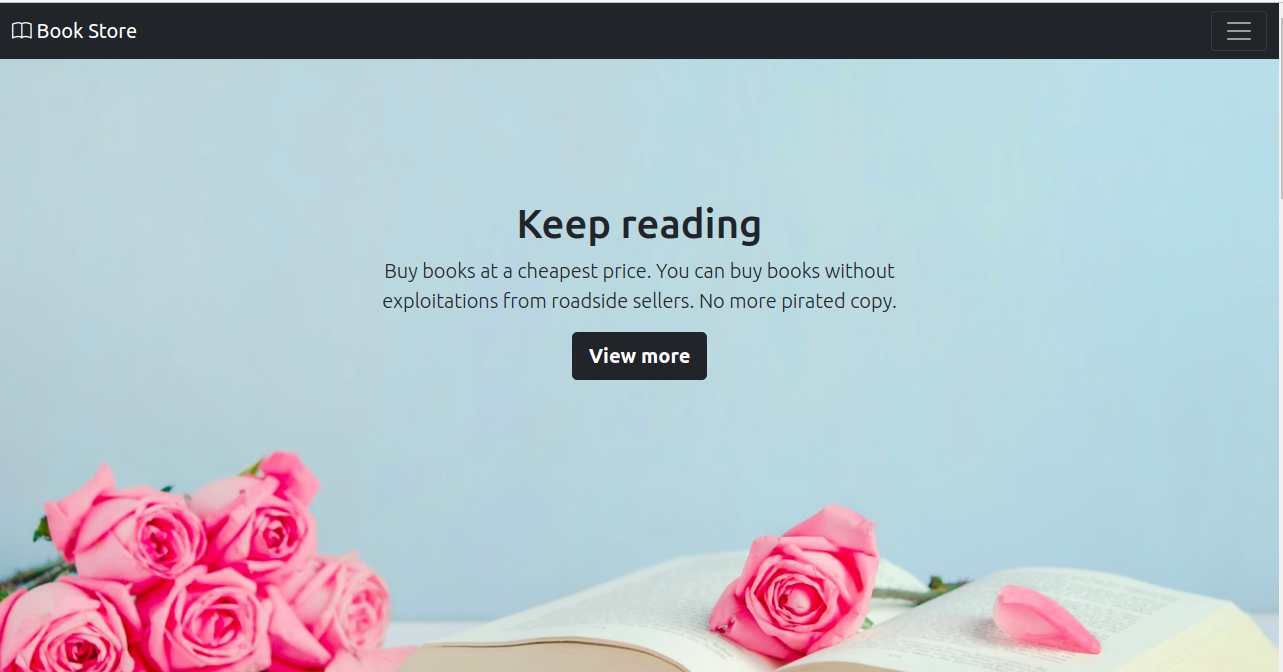
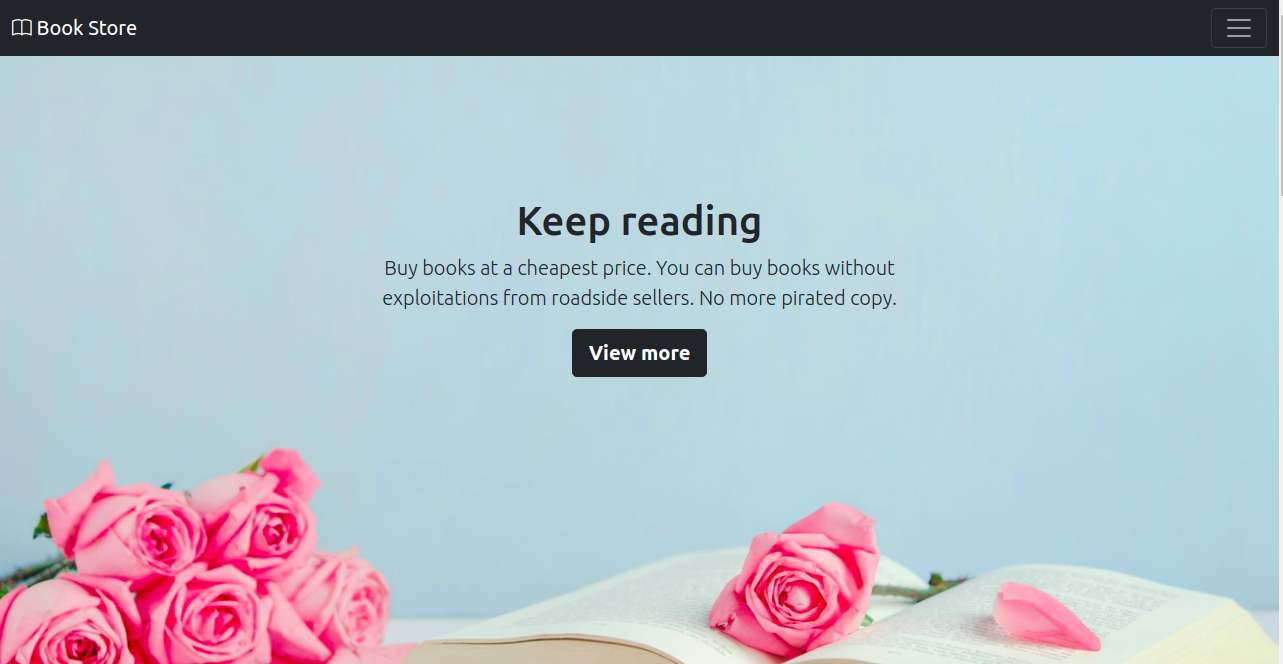
add new updates

diff --git a/index.html b/index.html
@@ -7,10 +7,10 @@
 <meta charset="utf-8">
 <meta name="viewport" content="width=device-width, initial-scale=1">
 <link href="https://cdn.jsdelivr.net/npm/bootstrap@5.1.3/dist/css/bootstrap.min.css" rel="stylesheet" integrity="sha384-1BmE4kWBq78iYhFldvKuhfTAU6auU8tT94WrHftjDbrCEXSU1oBoqyl2QvZ6jIW3" crossorigin="anonymous">
-<link href="https://fonts.googleapis.com/css?family=Unica+One%7CWork+Sans:300,600" rel="stylesheet"><link rel="stylesheet" href="https://cdnjs.cloudflare.com/ajax/libs/normalize/5.0.0/normalize.min.css">
 <link rel='stylesheet' href='https://maxcdn.bootstrapcdn.com/bootstrap/3.3.7/css/bootstrap.min.css'>
-  <link rel="stylesheet" href="https://cdn.jsdelivr.net/npm/bootstrap-icons@1.6.1/font/bootstrap-icons.css">
-    <link rel="icons" href="https://use.fontawesome.com/releases/v5.7.2/css/all.css">
+<link rel="stylesheet" href="https://pro.fontawesome.com/releases/v5.10.0/css/all.css" integrity="sha384-AYmEC3Yw5cVb3ZcuHtOA93w35dYTsvhLPVnYs9eStHfGJvOvKxVfELGroGkvsg+p" crossorigin="anonymous"/>
+
+  <!-- <link rel="stylesheet" href="https://cdn.jsdelivr.net/npm/bootstrap-icons@1.6.1/font/bootstrap-icons.css"> -->
 <link rel="stylesheet" href="./style.css">
 
 </head>
@@ -93,7 +93,7 @@
       <div class="row mb-3">
         <div class="col-sm-10 col-sm-offset-1">
         <hr class="dashed">
-          <h2 class="mb-60">My Skills</h2>
+          <h2 class="mb-30">My Skills</h2>
         </div>
       <div class="center_text">
         <div class="col-sm-3">
@@ -128,42 +128,59 @@
 
 <section id="project" >
 
-      <div class="container  my-5 p-4 color ">
-        <div class="row   ">
-      <h1 class="display-4 text-center mb-4 lh-1"> My Projects</h1>
+      <div class="row mb-3">
+        <div class="col-sm-10 col-sm-offset-1">
+          <h2 class="mb-30">My Projects</h2>
      
-      
-        
-      <div class="col-lg-4 ">
-        <div class="card">
-        <div class="card-body">
-        <img src="./p1.png" class="card-img-top" alt="...">
-          <p class="card-text text-center "> <a href="https://github.com/lilitha121/bootstrap"><ion-icon size="large" name="logo-github">https://github.com/lilitha121/bootstrap</ion-icon></a> <a href="https://lily-book-store.netlify.app/"> <ion-icon  size="large" name="globe-outline"></ion-icon></a> </p>
-        </div>
-      </div>
-        </div>
-    
-      <div class="col-lg-4 ">
-        <div class="card">
-        <div class="card-body">
-        <img src="p3.png" class="card-img-top" alt="...">
-        <p class="card-text text-center
-         "> <a href="https://github.com/lilitha121/class-exercise"><ion-icon size="large" name="logo-github"></ion-icon></a> <a href="https://css-html-lessons.netlify.app/"> <ion-icon  size="large" name="globe-outline"></ion-icon></a> </p>
-      </div>
-      </div>
-        </div>
-      
+      <div class="main">
+  <ul class="cards">
+    <li class="cards_item">
+      <div class="card">
+        <div class="card_image"><img src="./p1.png"></div>
+        <div class="card_content">
+          <h2 class="card_title">Book Store</h2>
+          <p class="card_text">It's a website of new arriving books</p>
+                  <p class="card-text text-center">
+      <a href="https://github.com/lilitha121/bootstrap"><i class="fab fa-github"></i> </a> 
+     <a href="https://lily-book-store.netlify.app/"> <i class="fab fa-chrome"></i></a> </p>
 
-      <div class="col-lg-4 " >
-        <div class="card">
-        <div class="card-body">
-        <img src="p4.png" class="card-img-top" alt="...">
-        <p class="card-text text-center
-         "> <a href="https://github.com/lilitha121/Projects"><ion-icon size="large" name="logo-github"></ion-icon></a> <a href="https://lilithangele.netlify.app"> <ion-icon  size="large" name="globe-outline"></ion-icon></a> </p>
-      </div>
-      </div>
         </div>
       </div>
+    </li>
+    <li class="cards_item">
+      <div class="card">
+        <div class="card_image"><img src="./p2.png"></div>
+        <div class="card_content">
+          <h2 class="card_title">HTML & CSS lessons</h2>
+          <p class="card_text">Basic lessons about CSS & HTML.</p>
+        <p class="card-text text-center">
+           <a href="https://github.com/lilitha121/class-exercise"><i class="fab fa-github"></i></a> 
+           <a href="https://css-html-lessons.netlify.app/"> <i class="fab fa-chrome"></i></a> </p>
+
+        </div>
+      </div>
+    </li>
+    <li class="cards_item">
+      <div class="card">
+        <div class="card_image"><img src="./p3.png"></div>
+        <div class="card_content">
+          <h2 class="card_title">My Portfolio</h2>
+          <p class="card_text">The first design of my portfolio.</p>
+                  <p class="card-text text-center">
+         <a href="https://github.com/lilitha121/Projects"><i class="fab fa-github"></i></a>
+          <a href="https://lilithangele.netlify.app"> <i class="fab fa-chrome"></i></a> </p>
+
+        </div>
+      </div>
+    </li>
+   
+   
+  </ul>
+</div>
+
+<!-- <h3 class="made_by">Made with ♡</h3> -->
+        
+        </div>
       </div>
 
     </section>
@@ -173,7 +190,7 @@
       <div class="row">
         <hr class="dashed">
         <div class="col-xs-12">
-          <h1 class="mb-60">Testimonials</h1>
+          <h1 class="mb-30">Testimonials</h1>
         </div>
         <div id="carouselExampleDark" class="carousel carousel-light slide" data-bs-ride="carousel">
           <div class="carousel-indicators">

diff --git a/style.css b/style.css
@@ -383,7 +383,7 @@ footer.row {
   text-align: left;
   text-shadow: none;
 }
-.card {
+/* .card {
   background-color: #fff;
   box-shadow: 0 1px 3px rgba(8,33,30,0.5);
   color: #394c4a;
@@ -394,7 +394,7 @@ footer.row {
 }
 .card h4 {
   font-size: 0.8rem;
-}
+} */
 #portfolio .carousel-indicators {
   bottom: 0;
   position: relative;
@@ -747,3 +747,120 @@ color:#d58521;
    -webkit-transform: rotate(360deg);
    transform: rotate(360deg);
  }
+
+
+ *,
+*::before,
+*::after {
+  box-sizing: border-box;
+}
+
+/* html {
+  background-color: #ecf9ff;
+} */
+
+/* body {
+  color: #272727;
+  font-family: 'Quicksand', serif;
+  font-style: normal;
+  font-weight: 400;
+  letter-spacing: 0;
+  padding: 1rem;
+} */
+
+.main{
+  max-width: 1200px;
+  margin: 0 auto;
+}
+
+/* h1 {
+    font-size: 24px;
+    font-weight: 400;
+    text-align: center;
+} */
+
+img {
+  height: auto;
+  max-width: 100%;
+  vertical-align: middle;
+}
+
+/* .btn {
+  color: #ffffff;
+  padding: 0.8rem;
+  font-size: 14px;
+  text-transform: uppercase;
+  border-radius: 4px;
+  font-weight: 400;
+  display: block;
+  width: 100%;
+  cursor: pointer;
+  border: 1px solid rgba(255, 255, 255, 0.2);
+  background: transparent;
+}
+
+.btn:hover {
+  background-color: rgba(255, 255, 255, 0.12);
+} */
+
+.cards {
+  display: flex;
+  flex-wrap: wrap;
+  list-style: none;
+  margin: 0;
+  padding: 0;
+}
+
+.cards_item {
+  display: flex;
+  padding: 1rem;
+}
+
+@media (min-width: 40rem) {
+  .cards_item {
+    width: 50%;
+  }
+}
+
+@media (min-width: 56rem) {
+  .cards_item {
+    width: 33.3333%;
+  }
+}
+
+.card {
+  background-color: white;
+  border-radius: 0.25rem;
+  box-shadow: 0 20px 40px -14px rgba(0, 0, 0, 0.25);
+  display: flex;
+  flex-direction: column;
+  overflow: hidden;
+}
+
+.card_content {
+  padding: 1rem;
+  background: linear-gradient(to bottom left, #EF8D9C 40%, #FFC39E 100%);
+}
+
+.card_title {
+  color: #ffffff;
+  font-size: 1.1rem;
+  font-weight: 700;
+  letter-spacing: 1px;
+  text-transform: capitalize;
+  margin: 0px;
+}
+
+.card_text {
+  color: #ffffff;
+  font-size: 0.875rem;
+  line-height: 1.5;
+  margin-bottom: 1.25rem;    
+  font-weight: 400;
+}
+/* .made_by{
+  font-weight: 400;
+  font-size: 13px;
+  margin-top: 35px;
+  text-align: center;
+} */
